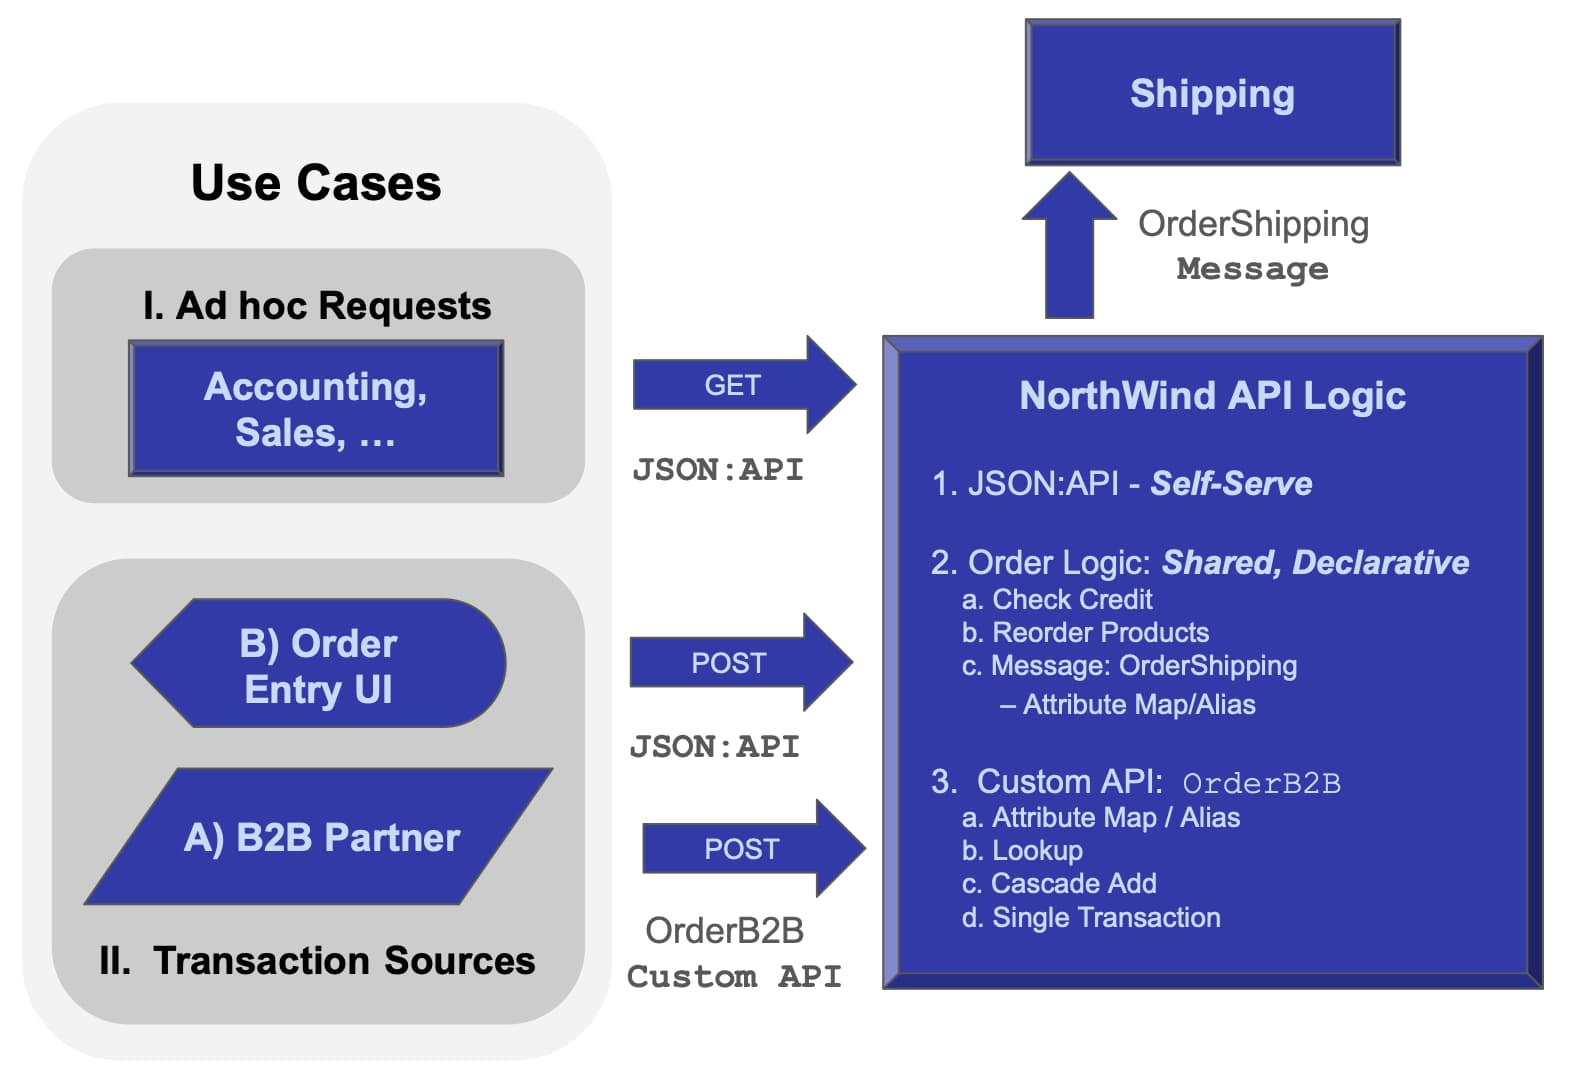
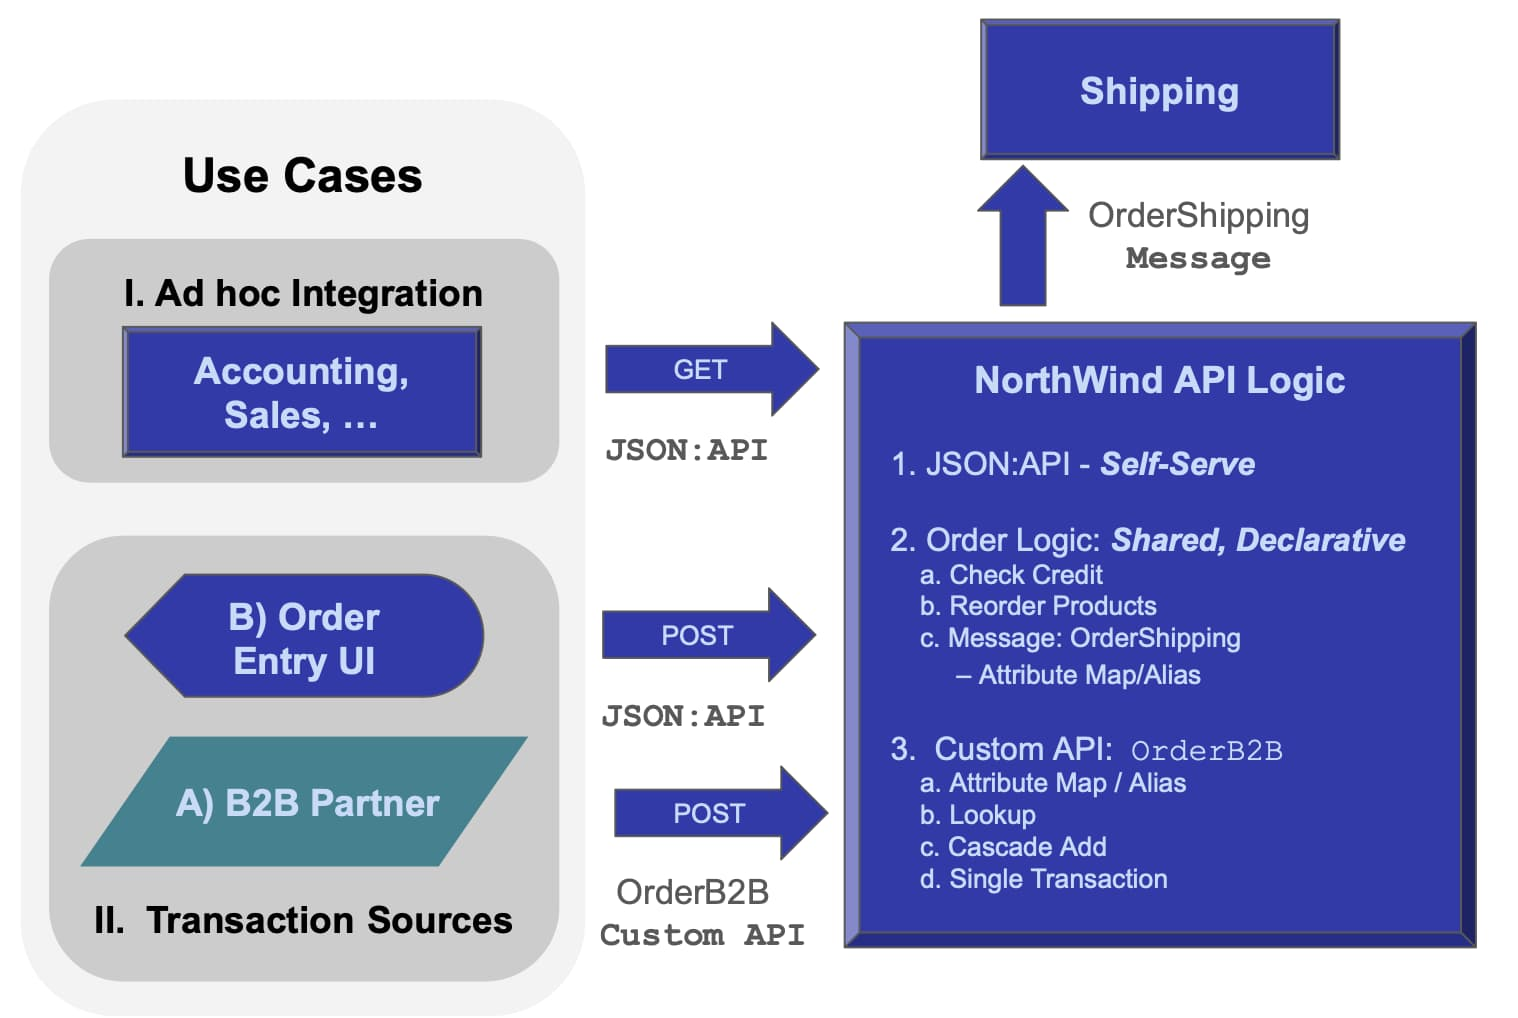
wip

diff --git a/docs/Sample-Integration.md b/docs/Sample-Integration.md
@@ -40,17 +40,15 @@ The **Shipping API Logic Server** listens on kafka, and stores the message which
 
 | Requirememnt | Worst Practice | Good Practice | Best Practice |
 | :--- |:---|:---|:---|
-| **Ad hoc requests** | Custom Server Dev  | Self-Serve APIs | **Automated** Self-Serve APIs |
-| **Logic** | Logic in UI | Reusable Logic | **Declarative Business Rules**, extensible with Python}
-| **Integration** | ETL | APIs | **Automated** Self-Serve APIs |
+| **Ad Hoc Integration** | ETL | APIs | **Automated** Self-Serve APIs |
+| **UI App Dev** | Custom API Dev  | Self-Serve APIs | **Automated** Self-Serve APIs<br>**Automated Admin App** (as applies) |
+| **Logic** | Logic in UI | Reusable Logic | **Declarative Business Rules**<br>.. extensible with Python |
+| **Custom Integration** | | Custom APIs | Reusable integration services |
 
 &nbsp;
 
-### Custom APIs
 
-Custom APIs are required to meet API contracts that define API request formats.  This system includes 2: one to integrate with external B2B partners, and 1 to integrate with internal organizations.
-
-### Self-Serve APIs
+### Ad Hoc Integrations
 
 However, it would be undesirable to require custom API development for the inevitable series of requirements that do not stipulate an API contract.  So, our system should support **self-serve** APIs in addition to custom APIs.
 
@@ -60,7 +58,6 @@ Unlike Custom APIs which require server development, Self-Serve APIs can be used
 
 * Application Integration - remote customers and organizations (Accounting, Sales) can similarly meet their own needs
 
-&nbsp;
 
 #### Avoid ETL
 
@@ -70,10 +67,13 @@ In many cases, this might be simply to lookup a client's address.  For such requ
 
 &nbsp;
 
-### Reusable Integration Services
+### UI App Dev
 
+APIs are of course required.  While these can be custom, the sheer number of such requests places a burden on the server team.  As for ad hoc integrations, a better approach is self-server APIs.
 
+In many systems, basic Admin UI apps can be automated to address requirements when the UI needs are minimal.
 
+&nbsp;
 
 ### Shared Logic
 
@@ -82,6 +82,14 @@ A proper architecture must consider where to place business logic (check credit,
 A worst practice is to place such logic on UI controller buttons.  It can be difficult or impossile to share this with the OrderB2B service, leading to duplication of efforts and inconsistency.
 
 *Shared* logic is thus a requirement, to avoid duplication and ensure consistent results.  Ideally, such logic is declarative: much more concise, and automatically enforced, ordered and optimized.
+
+&nbsp;
+
+### Custom APIs
+
+Custom APIs are required to meet API contracts that define API request formats.  This system includes 2: one to integrate with external B2B partners, and 1 to integrate with internal organizations.
+
+#### Reusable Integration Services
 
 &nbsp;
 
